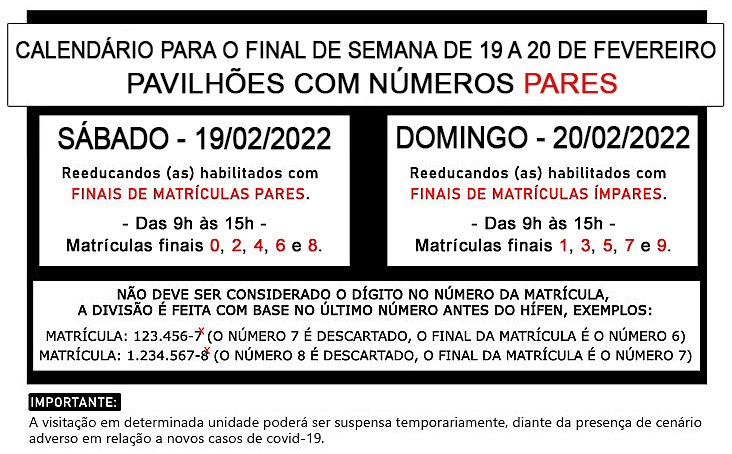
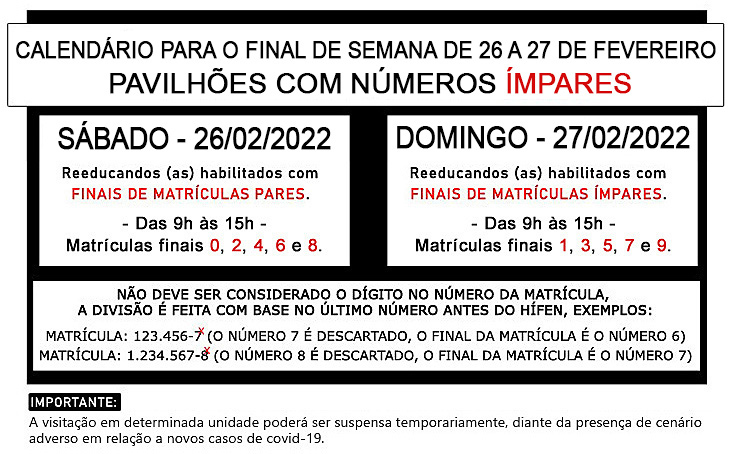
atualização calendario

diff --git a/calendario.html b/calendario.html
@@ -29,7 +29,7 @@
       <section>
         <h2>Calendário de Visitação</h2>
         <img src="imagens/calendario.jpg" alt="Calendário de Visitação">
-        <p style="text-align: center;">Atualizado dia 15/02/2022</p>
+        <p style="text-align: center;">Atualizado dia 24/02/2022</p>
       </section>
     </main>
 </body>
